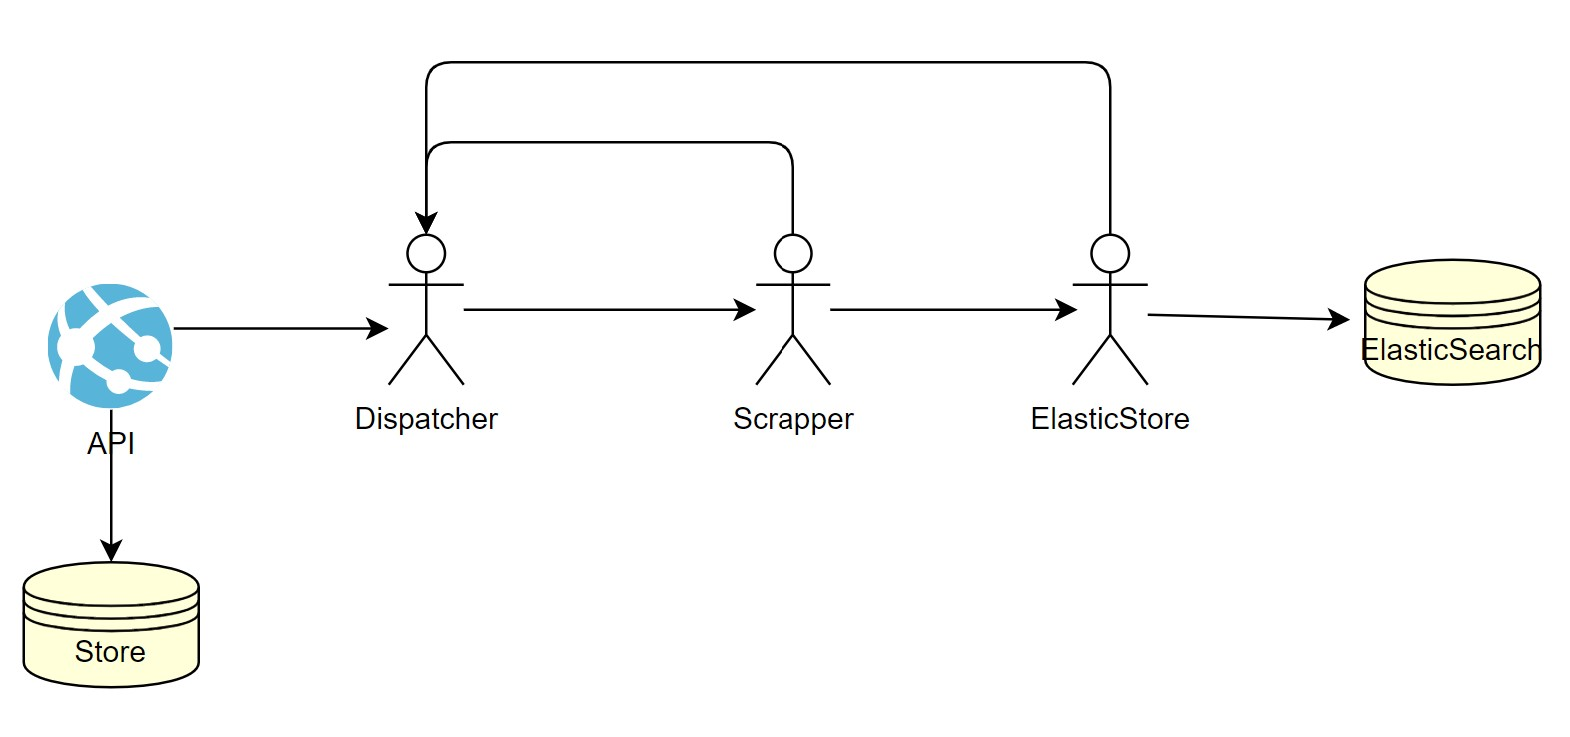
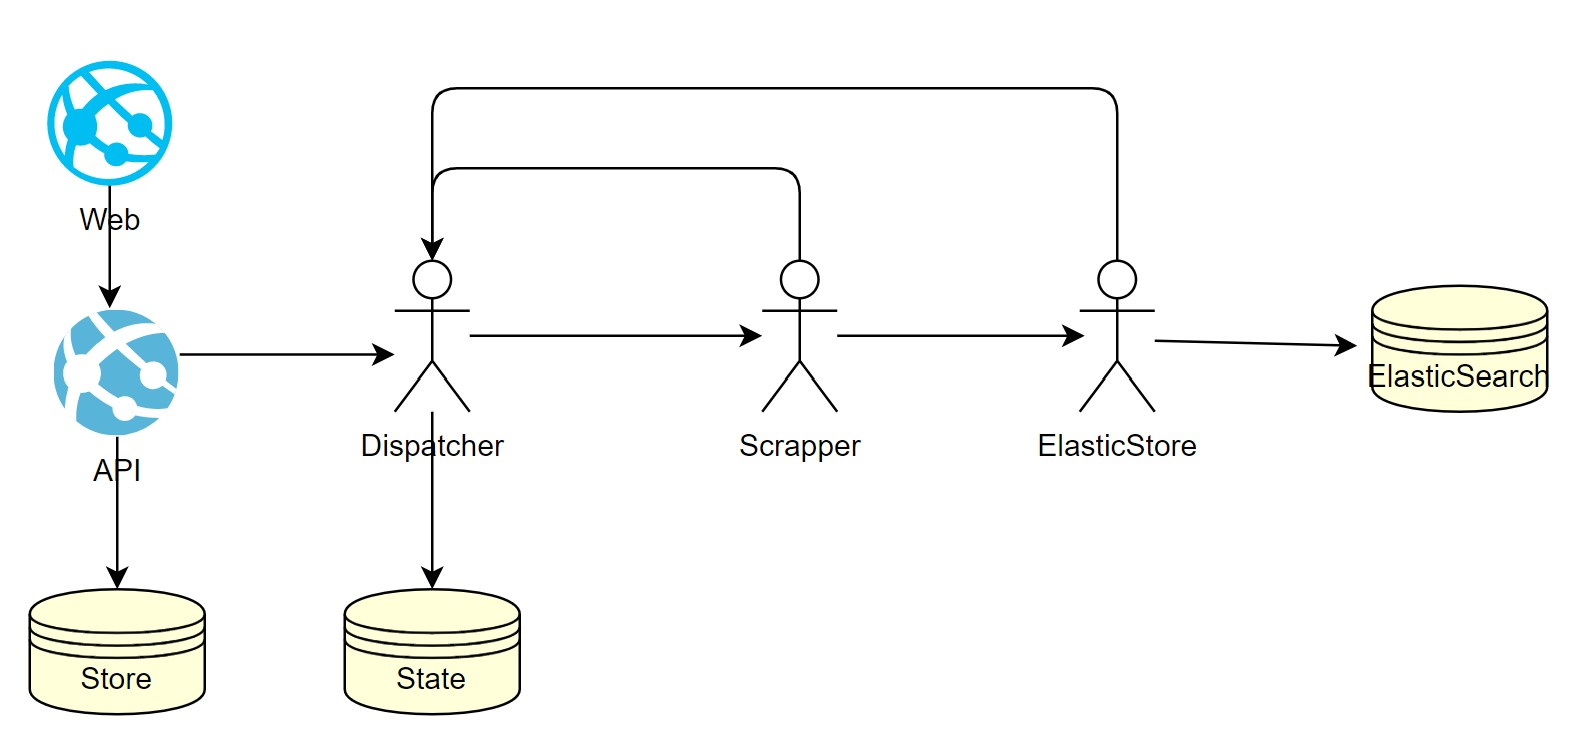
readme

diff --git a/readme.md b/readme.md
@@ -26,9 +26,17 @@ Created index name for scrapper is  `{contract_address}_v1`
 ![kibana](assets/kibana.jpg "kibana")
 
 Use refresh button to update progress.
-Scrapper could be paused and resumed, progress state will be stored. If some error occurs, scrapper will be set to `Failure` state, after it could be resumed
+Scrapper could be paused and resumed, progress state will be stored. If some error occurs, scrapper will be set to `Failure` state, after it could be resumed.
 
 Once scrapper finish to gather all data it will be scheduled to scrap new blocks with 1 minute interval.
+
+Docker-compose run by default following services
+
++ Redis - DAPR store 
++ Elasticsearch - store scrapped data
++ Kibana - Elasticsearch client
++ Seq - log client, optional could be excluded by commenting it out, also should be commented `depends_on`
++ zipkin - tracing, optional commented by default
 
 ## Development
 
@@ -36,7 +44,102 @@ Application is set of [DAPR](https://dapr.io/) micro services
 
 ![arch](assets/app-arch.jpg "arch")
 
++ Web - web client React frontend (typescript)
 + API - asp net rest API (F#)
 + Dispatcher - DAPR actor (F#)
 + Scrapper - DAPR actor (node)
-+ ElastciStore - DAPR actor (F#)
++ ElasticStore - DAPR actor (F#)
+
+Every project folder contains `read.me` file with instructions how to start project locally with DAPR cli command. 
+
+Every service contains `test.http` file which could be used to test service api calls.
+
+### Web
+
+`react/scrapper-web` 
+client written in react to interact with API
+
+### API
+
+`dotnet/Eth/ScrapperAPI`
+Rest API  
++ Proxy to Dispatcher actor
++ CRUD for `projects` and `versions`
+
+Store is configurable via DAPR config
+
+### Dispatcher
+
+`dotnet/Eth/ScrapperDispatcherActor`
+
+Stateful actor
++ Id is `{contract_address}_{version}`
++ Calculate next block range to request
++ Proxy call to Scrapper actor
++ Store current actor state 
++ Manage actor state via `start / pause / resume / reset`
+
+State
+```
+  { Status: Status
+    Request: ScrapperRequest
+    Date: int64
+    FinishDate: int64 option }
+```
+
+Store is configurable via DAPR config
+
+#### Block range request calculator
+
+Algorithm try to eagerly fetch as many blocks is it possible, in case of `limit-exceeded` error it will split current block by half, in case of `empty-result` and `success` will move to the next block
+
+![range-calc](assets/range-calc.jpg "range-calc")
+
+1. get all block from `0` to `latest`; returns `limit-exceeded`
+2. since pervious result was `limit-exceeded` split pervious block by half, start from pervious `from`; returns `empty-result`
+3. since pervious result was `empty-result` move `from` to pervious `to`, `to` to `latest`; returns `limit-exceeded`
+4. since pervious result was `limit-exceeded` split pervious block by half, start from pervious `from`; returns `limit-exceeded`
+5. since pervious result was `limit-exceeded` split pervious block by half, start from pervious `from`; returns `empty-result`
+6. since pervious result was `empty-result` move `from` to pervious `to`, `to` to `latest`; returns `limit-exceeded`; 
+7. since pervious result was `limit-exceeded` split pervious block by half, start from pervious `from`; returns `success`
+8. since pervious result was `success` move `from` to pervious `to`, `to` to `latest`; returns `limit-exceeded`; 
+9. since pervious result was `limit-exceeded` split pervious block by half, start from pervious `from`; returns `success`
+10. since pervious result was `success` move `from` to pervious `to`, `to` to `latest`; returns `success`; 
+11. Check `to` is `latest` and it `success` - finish scrapping
+
+
+### Scrapper
+
+`node/scrapper-actor`
+
+Stateless actor, read web3 ethereum events within specified range, returns 
+successful result or errors:
++ limit-exceeded - when number of events in requested block range exceeds 10000 web3 will return this error 
++ empty-result - if requested block contains no result
++ web3-failure - any unexpected failure from web3
+
+In case of success actor will call `ElasticStore` actor
+In case of error actor will call `Dispatcher` actor
+
+### ElasticStore
+
+`dotnet/Eth/ElasticStoreActor`
+
+Stateless actor
++ Store data to elastcisearch
++ Call `dispatcher` actor in case of success / error
+
+### Actors error handling
+
+The fire / forget calls approach to actor architecture makes it hard to catch children errors. In contrast with other Actor libraries (Akka, Orleans) DAPR, doesn't provides utilities to help with child actor invocations and their failures.
+
+The current implementation calling actor methods and waits for result, but actor methods themselves return call at once without waiting job done, this help to detect common actor call failure in case of child actor not available.
+
+Consider `dispatcher` actor as root one, every expected error from other actors will be passed there with `Failure` method. Still for edge cases of unexpected errors in child actors there is no way to detect them, in this case it is possible to detect pending actors by the `State.date` field which contains latest update for the actor, when this `date` is not updated to long this is indication what something was broken along of the process and it pending.
+
+
+
+
+
+
+
